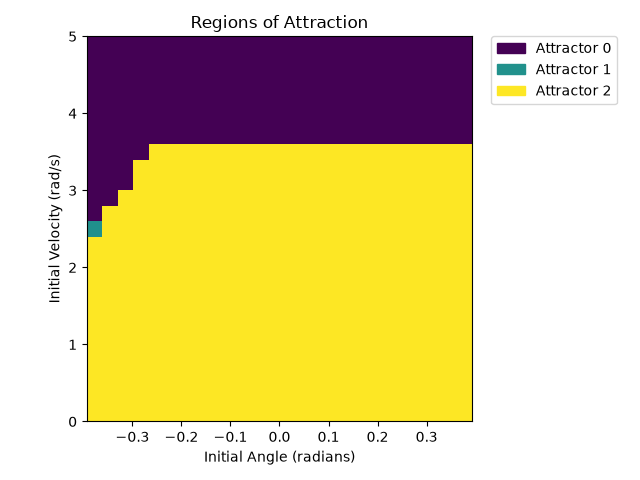
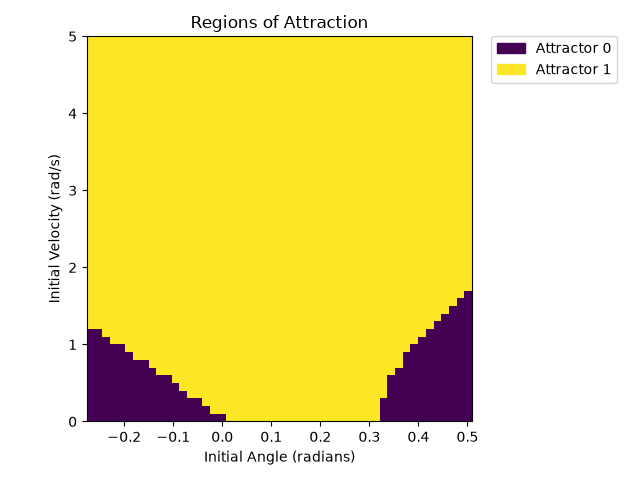
Added Floquet Multiplier calculations and organized assignment_1.py

diff --git a/assignment_1.py b/assignment_1.py
@@ -37,7 +37,7 @@ def calculate_regions_of_attraction(params, eps=5e-2, num_angles=5, num_velociti
     # Search space
     half_spoke_angle = np.pi / float(params["num_spokes"])  # half-angle between spokes, radians
     initial_angles = np.linspace(
-        -half_spoke_angle, half_spoke_angle, num_angles
+        -half_spoke_angle + params["slope_angle"], half_spoke_angle + params["slope_angle"], num_angles
     )
     initial_velocities = np.linspace(0, 5, num_velocities)
     print(f"Initial angles: {initial_angles}")
@@ -65,9 +65,7 @@ def calculate_regions_of_attraction(params, eps=5e-2, num_angles=5, num_velociti
         # Verify attractor
         this_attractor = None
         diff = np.linalg.norm(state_traj[:, [-1]] - state_traj, axis=0)
-        repeated_points = (diff[: -int(0.1 / timestep)] < eps).nonzero()[
-            0
-        ]  # Exclude the last 0.1 seconds
+        repeated_points = (diff[: -int(0.1 / timestep)] < eps).nonzero()[0]  # Exclude the last 0.1 seconds. Don't really remember why I decided to do this tbh
         if repeated_points.size > 0:
             # There is at least one repeated point
             idx = np.max(repeated_points)
@@ -97,17 +95,18 @@ def calculate_regions_of_attraction(params, eps=5e-2, num_angles=5, num_velociti
                     regions[angle_idx, vel_idx] = att_idx
                     break
             if not already_found:
+                # Didn't find a match. This must be a new attractor!
                 # print("Found no matches")
                 attractors.append(this_attractor)
                 regions[angle_idx, vel_idx] = len(attractors) - 1
         else:
+            # No attractor here. Maybe we didn't let the simulation run long enough?
             # print("No attractor")
             regions[angle_idx, vel_idx] = -1
 
     print("Done!")
-    # print(regions)
     plt.clf()
-    im = plt.imshow(regions, extent=(initial_angles[0],initial_angles[-1],initial_velocities[0],initial_velocities[-1]))
+    im = plt.imshow(regions.T, origin="lower", extent=(initial_angles[0],initial_angles[-1],initial_velocities[0],initial_velocities[-1]))
     plt.gca().set_aspect((initial_angles[-1] - initial_angles[0]) / (initial_velocities[-1] - initial_velocities[0]))
     plt.xlabel("Initial Angle (radians)")
     plt.ylabel("Initial Velocity (rad/s)")
@@ -141,15 +140,132 @@ def calculate_regions_of_attraction(params, eps=5e-2, num_angles=5, num_velociti
         plt.savefig(os.path.join("output", output_name, f"attractor_{att_idx}.png"))
 
 
+def calculate_poincare_return_map(params, initial_state, perturbation_mag=0.1, output_name="poincare"):
+    # Calculate the Return Map of an orbit using a Poincare section
+    # Also calculate the slope of the Return Map around its fixed point
+    # Inputs:
+    #   params: model params to use, such as those generated by model.generate_params()
+    #   initial_state: 2xn array representing the initial angle and angular velocity of the wheel
+    #   perturbation_mag: the magnitude of perturbations used to calculate the fixed point slope
+    #   output_name: name of the directory that should be created to put results in
+    # Outputs: None; saves plots to the provided directory
+
+    # Check whether the output directory exists and create it if necessary
+    if not os.path.isdir("output"):
+        os.mkdir("output")
+    if not os.path.isdir(os.path.join("output", output_name)):
+        os.mkdir(os.path.join("output", output_name))
+    
+    # The model.dynamics() function adds contact states to the provided list
+    # Maybe that's not ideal...
+    poincare_section = []
+    _ = integrator.integrate(
+        params,
+        model,
+        initial_state,
+        timestep,
+        sim_time,
+        dynamics_args={"poincare_section": poincare_section},
+    )
+
+    if len(poincare_section) == 0:
+        print("Unable to create return map")
+        return
+
+    # Plot crossings
+    plt.figure()
+    min_vel = min([p[1] for p in poincare_section])
+    max_vel = max([p[1] for p in poincare_section])
+    plt.plot(
+        [min_vel * 0.9, 1.1 * max_vel],
+        [0.9 * min_vel, 1.1 * max_vel],
+        label="Identity Line",
+    )
+    plt.xlabel("Previous value of Angular Velocity (rad/s)")
+    plt.ylabel("Next value of Angular Velocity (rad/s)")
+    plt.legend()
+    plt.plot(
+        [p[1] for p in poincare_section[:-1]],
+        [p[1] for p in poincare_section[1:]],
+        "rx:",
+    )
+    if len(poincare_section) < 2:
+        plt.title("Return Map (Failed)")
+        plt.savefig(os.path.join("output", output_name, "return_map.png"))
+        print("Not enough points in Poincare section; did we reach a good attractor?")
+        return
+
+    # Estimate the fixed point automatically by looking at the most recent Poincare point
+    fixed_point_state = poincare_section[-1]
+    print(f"Computer-estimated fixed point: {fixed_point_state[1]}")
+
+    # Floquet Multiplier
+    # Perturb the fixed point slightly
+    perturbation_sim_time = 5.0  # doesn't need to be long
+    perturbation = np.array([0.0, perturbation_mag])
+    # Positive perturbation
+    poincare_section = []
+    _ = integrator.integrate(
+        params,
+        model,
+        fixed_point_state + perturbation,
+        timestep,
+        perturbation_sim_time,
+        dynamics_args={"poincare_section": poincare_section},
+    )
+    if len(poincare_section) == 0:
+        plt.title("Return Map (Floquet Multiplier Failure)")
+        plt.savefig(os.path.join("output", output_name, "return_map.png"))
+        print("Not enough points in Poincare section; did we reach a good attractor?")
+        return
+    positive_perturbation_state = poincare_section[0]
+    # Negative perturbation
+    poincare_section = []
+    _ = integrator.integrate(
+        params,
+        model,
+        fixed_point_state - perturbation,
+        timestep,
+        perturbation_sim_time,
+        dynamics_args={"poincare_section": poincare_section},
+    )
+    if len(poincare_section) == 0:
+        plt.title("Return Map (Floquet Multiplier Failure)")
+        plt.savefig(os.path.join("output", output_name, "return_map.png"))
+        print("Not enough points in Poincare section; did we reach a good attractor?")
+        return
+    negative_perturbation_state = poincare_section[0]
+    # Calculate slope at fixed point
+    fixed_point_slope = (
+        positive_perturbation_state[1] - negative_perturbation_state[1]
+    ) / (2 * perturbation_mag)
+    print(f"The fixed point slope is {fixed_point_slope}")
+    # This value is less than 1, demonstrating how neighboring orbits converge towards the stable limit cycle
+
+    plt.suptitle("Return Map for Angular Velocity and Identity Line")
+    plt.title(
+        f"Fixed Point at {fixed_point_state[1]:.2f}; Floquet Multiplier {fixed_point_slope:.2f}"
+    )
+    plt.savefig(os.path.join("output", output_name, "return_map.png"))
+
+
 if __name__ == "__main__":
     # Main script
     # I just like how this looks
     
+    # Create the output directory
+    if not os.path.isdir("output"):
+        os.mkdir("output")
+    
     # Generate default param values (contains slope angle, number of spokes, etc.)
     params = model.generate_params()
+
+    print(f"Half-spoke angle is {np.pi / float(params["num_spokes"])}")
+    print(f"Smallest possible angle without colliding is {params["slope_angle"] - np.pi / float(params["num_spokes"])}")
+    print(f"Largest possible angle without colliding is {params["slope_angle"] + np.pi / float(params["num_spokes"])}")
     
     # State is stance angle (in the range for one spoke) and stance angular velocity
-    initial_state = np.array([0.0, 0.5])
+    initial_state = np.array([0.0, 1.0])
     
     timestep = 1e-3
     sim_time = 5.0  # 5.0 seconds is generally enough to reach a recognizable attractor
@@ -159,80 +275,54 @@ if __name__ == "__main__":
     
     # Plot the angle over time
     plt.figure()
-    plt.plot(time_traj, state_traj[0], 'bo:', label="Angle")
+    plt.plot(time_traj, state_traj[0], 'bo:', alpha=0.25, label="Angle")
     plt.xlabel("Time (s)")
     plt.ylabel("Angle (radians)")
     plt.title("Rimless Wheel Angle vs Time")
     plt.legend()
     plt.tight_layout()
+    plt.savefig(os.path.join("output", "trajectory.png"))
     plt.show()
-    
+
     # Phase diagram: velocity vs angle
     plt.figure()
-    plt.plot(state_traj[0], state_traj[1], 'bo:', alpha=0.1, label="Trajectory")
+    plt.plot(state_traj[0], state_traj[1], 'bo:', alpha=0.05, label="Trajectory")
     plt.xlabel("Angle (radians)")
     plt.ylabel("Angular Velocity (rad/s)")
     plt.title("Rimless Wheel Phase Portrait")
     plt.legend()
     plt.tight_layout()
+    plt.savefig(os.path.join("output", "phase_diagram.png"))
     plt.show()
-    
+
     # Plot the system energy over time
     plt.figure()
-    plt.plot(time_traj, potential_energy, 'bo:', label="Potential energy")
-    plt.plot(time_traj, kinetic_energy, 'ro:', label="Kinetic energy")
-    plt.plot(time_traj, potential_energy + kinetic_energy, 'go:', label="Total energy")
+    plt.plot(time_traj, potential_energy, 'bo:', alpha=0.25, label="Potential energy")
+    plt.plot(time_traj, kinetic_energy, 'ro:', alpha=0.25, label="Kinetic energy")
+    plt.plot(time_traj, potential_energy + kinetic_energy, 'go:', alpha=0.25, label="Total energy")
     plt.xlabel("Time (s)")
     plt.ylabel("Energy (J)")
     plt.title("Pendulum energy")
     plt.legend()
     plt.tight_layout()
+    plt.savefig(os.path.join("output", "system_energy.png"))
     plt.show()
 
-    
-    # Searching for Regions of Attraction
-    # I want to make this as automated as possible
+    # Sweeping inclinations and number of spokes
+    # This includes the original, default param values, so we'll just lump that in here too
     # Please note that the output plots of this function are saved as images in output/{output_name}
-    # Regions of Attraction for my default params:
-    calculate_regions_of_attraction(params, eps=1e-2, num_angles=25, num_velocities=25, output_name="default")
-    # Regions of Attraction for an extra-steep slope:
-    params = model.generate_params()
-    params["slope_angle"] = params["slope_angle"] * 2
-    calculate_regions_of_attraction(params, num_angles=25, num_velocities=25, output_name="steep_slope")
-    # Regions of Attraction for a normal slope and 12 spokes
-    params = model.generate_params()
-    params["num_spokes"] = 12
-    calculate_regions_of_attraction(params, num_angles=25, num_velocities=25, output_name="12_spokes")
+    initial_state = np.array([0.0, 1.0])
+    for slope_angle in np.linspace(0,0.35,7):
+        params = model.generate_params()
+        params["slope_angle"] = slope_angle
+        output_name = f"angle_{slope_angle:.2f}".replace(".","-")
+        calculate_regions_of_attraction(params, num_angles=50, num_velocities=50, output_name=output_name)
+        calculate_poincare_return_map(params, initial_state=initial_state, output_name=output_name)
 
+    for num_spokes in (6, 7, 8, 9, 10, 11, 12):
+        params = model.generate_params()
+        params["num_spokes"] = num_spokes
+        output_name = f"{num_spokes}_spokes".replace(".", "-")
+        calculate_regions_of_attraction(params, num_angles=50, num_velocities=50, output_name=output_name)
+        calculate_poincare_return_map(params, initial_state=initial_state, output_name=output_name)
 
-    # Poincare Section
-    # The model.dynamics() function adds contact states to the provided list
-    # Maybe that's not ideal...
-    params = model.generate_params()  # Make sure we're back to a standard set of params
-    initial_state = np.array([0.0, 0.5])
-    poincare_section = []
-    time_traj, state_traj = integrator.integrate(params, model, initial_state, timestep, sim_time, dynamics_args={"poincare_section":poincare_section})
-
-    # Plot crossings
-    plt.figure()
-    min_vel = min([p[1] for p in poincare_section])
-    max_vel = max([p[1] for p in poincare_section])
-    plt.plot([min_vel*0.9,1.1*max_vel],[0.9*min_vel,1.1*max_vel], label="Identity Line")
-    plt.title("Return Map for Angular Velocity and Identity Line")
-    plt.xlabel("Previous value of Angular Velocity (rad/s)")
-    plt.ylabel("Next value of Angular Velocity (rad/s)")
-    plt.legend()
-    for i in range(len(poincare_section)-1):
-        plt.plot(poincare_section[i][1], poincare_section[i+1][1], 'rx')
-    plt.savefig(os.path.join("output", "return_map.png"))
-    for i in range(len(poincare_section)-1):
-        plt.gca().text(poincare_section[i][1], poincare_section[i+1][1], f"{i}", fontsize=12)
-    plt.show()
-    # The contact points right around the identity line like jumping back and forth, maybe because of simulation issues
-    print(f"Computer-estimated fixed point: {sum([poincare_section[-i][1] for i in range(4)])/4}")
-
-
-    # Floquet Multiplier
-    # plt.figure()
-    # plt.plot(range(len(poincare_section)), [p[1] for p in poincare_section])
-    # plt.show()

diff --git a/models/rimless_wheel.py b/models/rimless_wheel.py
@@ -8,6 +8,13 @@ def dynamics(t, state, params, poincare_section=None):
     # Angular momentum about the new contact point must be conserved
     # Positive angle is clockwise in this model; angle of 0 is globally vertical
     # If poincare_section is provided (as an empty list), then the state after each collision will be appended to it
+    # Inputs:
+    #   t: instantaneous time
+    #   state: 2x1 array representing state. This may be modified in-place if there is a collision
+    #   params: dict of params as generated by generate_params()
+    #   poincare_section: if an empty list is provided here, states just after collision will be appended to it
+    # Outputs: 2xn array representing the derivative of the state
+
     mass = params["mass"]
     gravity = params["gravity"]
     length = params["spoke_length"]
@@ -21,16 +28,27 @@ def dynamics(t, state, params, poincare_section=None):
     # Angle relative to slope normal
     rel_angle = abs_angle - slope_angle
     if rel_angle > half_spoke_angle:
-        # Transition to either the next or the previous spoke
-        # The actual transition is handled by our modulus functions, but we need to absorb some energy for the collision
+        # Transition to the next spoke
+        # The "next spoke" has probably actually penetrated into the ground by a tiny bit now
+        # Let's find the state that the pendulum would have been at when it reached the contact angle exactly
+        # Assuming that energy is conserved
+        this_kinetic, this_potential = calculate_energy(state, params)
+        this_total_energy = this_kinetic + this_potential
+        # At the contact state, the pendulum must have had a relative angle equal to half_spoke_angle
+        contact_potential_energy = params["gravity"] * params["mass"] * np.cos(half_spoke_angle + slope_angle) * params["spoke_length"]
+        # Solve for the contact kinetic energy
+        contact_kinetic_energy = this_total_energy - contact_potential_energy
+        contact_ang_vel = np.sqrt(contact_kinetic_energy / (0.5 * params["mass"])) / params["spoke_length"]
         # Projecting the previous velocity onto the arc of the new spoke to preserve the tangent component:
-        angular_velocity *= np.cos(2 * half_spoke_angle)
+        angular_velocity = contact_ang_vel * np.cos(2 * half_spoke_angle)  #*= np.cos(2 * half_spoke_angle)
         # This is poor form, but we can actually just modify the state in-place
         state[0] = -half_spoke_angle + slope_angle
         state[1] = angular_velocity
         if poincare_section is not None:
             poincare_section.append(state)
     if rel_angle < -half_spoke_angle:
+        # The relative angle is behind the back spoke
+        # Somehow, the wheel has rolled backwards
         # Assume that the wheel has stopped
         state[0] = -half_spoke_angle
         state[1] = 0
@@ -48,6 +66,11 @@ def dynamics(t, state, params, poincare_section=None):
 
 
 def generate_params():
+    # Generate some normal params for this system
+    # Params generally include things that define the system and don't change
+    # Inputs: None
+    # Outputs: dict of params
+
     params = {
         "gravity": 9.81,  # gravitational acceleration, m/s^2
         "spoke_length": 0.5,  # spoke length, m
@@ -64,6 +87,10 @@ def calculate_energy(state, params):
     # Energy for this system is kind of awkward because it's always rotating down a slope
     # So, in one sense, we start with infinite gravitational potential energy and
     # We're also losing energy with every collision because they're modeled as being plastic
+    # Inputs:
+    #   state: 2xn array of states
+    #   params: params dict as generated by generate_params()
+    # Output: n-length arrays of kinetic and potential energy
 
     angle = state[0]
     angular_velocity = state[1]

diff --git a/assignment-submissions/assignment_1_submission.md b/assignment-submissions/assignment_1_submission.md
@@ -20,7 +20,9 @@ Basic sanity checks can be confirmed by looking at three plots:
 
 ## Regions of Attraction
 For the default parameters of the rimless wheel, a plot like this is generated:
+
 ![Regions of Attraction for the default params](images/rimlesswheel_regions.png "Hi how's it going")
+
 In this plot, Attractor 0 is a fixed point representing the wheel not having enough momentum to go over its spoke and just resting for all eternity.
 Attractor 1 is the fixed point where the wheel is perfectly balanced on one spoke; this is a very unstable equilibrium.
 Attractor 2 is the limit cycle produced as the wheel rolls down the slope.
@@ -30,7 +32,9 @@ When the script is actually run, plots of these attractors in phase-space are ge
 The one-dimensional return map shows the angular velocity after collision plotted against the angular velocity before collision.
 The live version of the plot includes labels for each point denoting their order.
 This plot represents a wheel simulated with my default params.
-![One-Dimensional Return Map](images/rimlesswheel_returnmap.png "I'm still on campus working on this nonsense in the middle of the night")
+
+![One-Dimensional Return Map](images/rimlesswheel_returnmap.png "I'm glad that this assignment was extended bc I really needed that extra time")
+
 The fixed point appears to be about 2.48.
 
 ## Effect of slope and number of spokes on Regions of Attraction and local convergence
